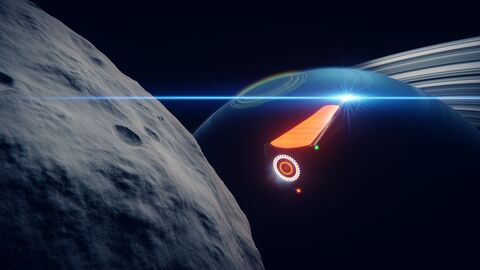
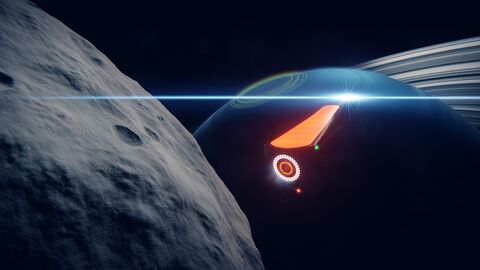
Fixed typo and tweaked lens flare and dirt

Changed region(s): [[0.25, 0.3259, 1.0, 0.4444], [0.1875, 0.3556, 0.2188, 0.3852]]

diff --git a/content/article/reports-from-the-orion-arm/the-long-stay.md b/content/article/reports-from-the-orion-arm/the-long-stay.md
@@ -88,7 +88,7 @@ She was unnaturally short for a space-born, so she must have been brought up on 
 She groaned in pain at the movement as I carried her back to the cabinet.
 I gently laid her down on the floor in front of the cabinet, careful to pull her hair out from under her, and slid the first aid kit out of its slot.
 
-I wasn't a trained medic, but my parents had, and I'd learned a lot from them.
+I wasn't a trained medic, but both my parents were, and I'd learned a lot from them.
 I wished I'd paid more attention to them now.
 I unlatched and opened the suitcase-sized first aid kit and located the splints.
 On a spaceship full of weak-boned space-borns, you needed splints surprisingly often.
@@ -146,4 +146,4 @@ Both doors were rated for several atmospheres of pressure, but with the structur
 
 "Yes," she replied, her voice quiet and tinny in my helmet.
 
-I nodded my head resolutely and began to descend the ladder, my suitcase bumping into my legs.
+I nodded my head resolutely and began to descend the ladder, my suitcase bumping into my legs as I descended.

diff --git a/content/art/xon-wasp-venalis-station-departure.md b/content/art/xon-wasp-venalis-station-departure.md
@@ -56,7 +56,7 @@ We look forward to doing business with you.
 
 # Technical Details
 
-Everything you see in this piece was Created 100% with [Blender](/tags/blender) 2.80 and [Eevee](/tags/blender-eevee) (we don't need Cycles here!)
+Everything you see in this piece was created 100% with [Blender](/tags/blender) 2.80 and [Eevee](/tags/blender-eevee) (we don't need Cycles here!)
 The environment a cubemap, pre-rendered in Eevee; it's imported directly into the primary scene with a custom cubemap world shader to avoid the distortion from equirectangular projections.
 The ship itself is rather detailed, with panels being built into the geometry, not delineated with a normal map.
 (The panels are shrinkwrapped to a hidden "body shape" object to keep their normals consistent even when their shapes are tweaked.)
